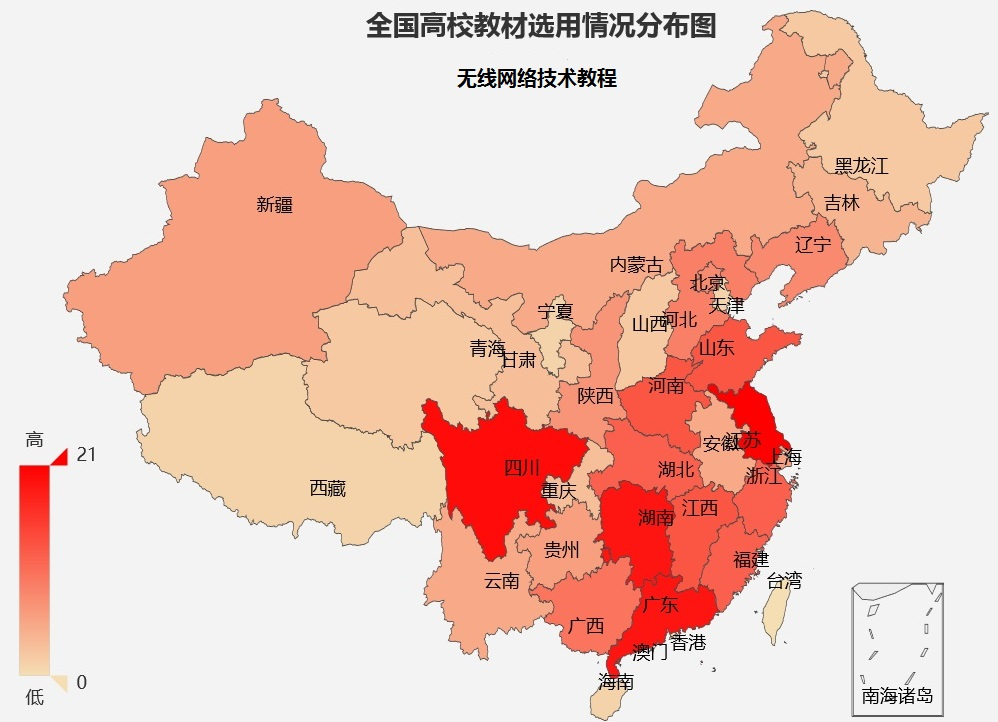
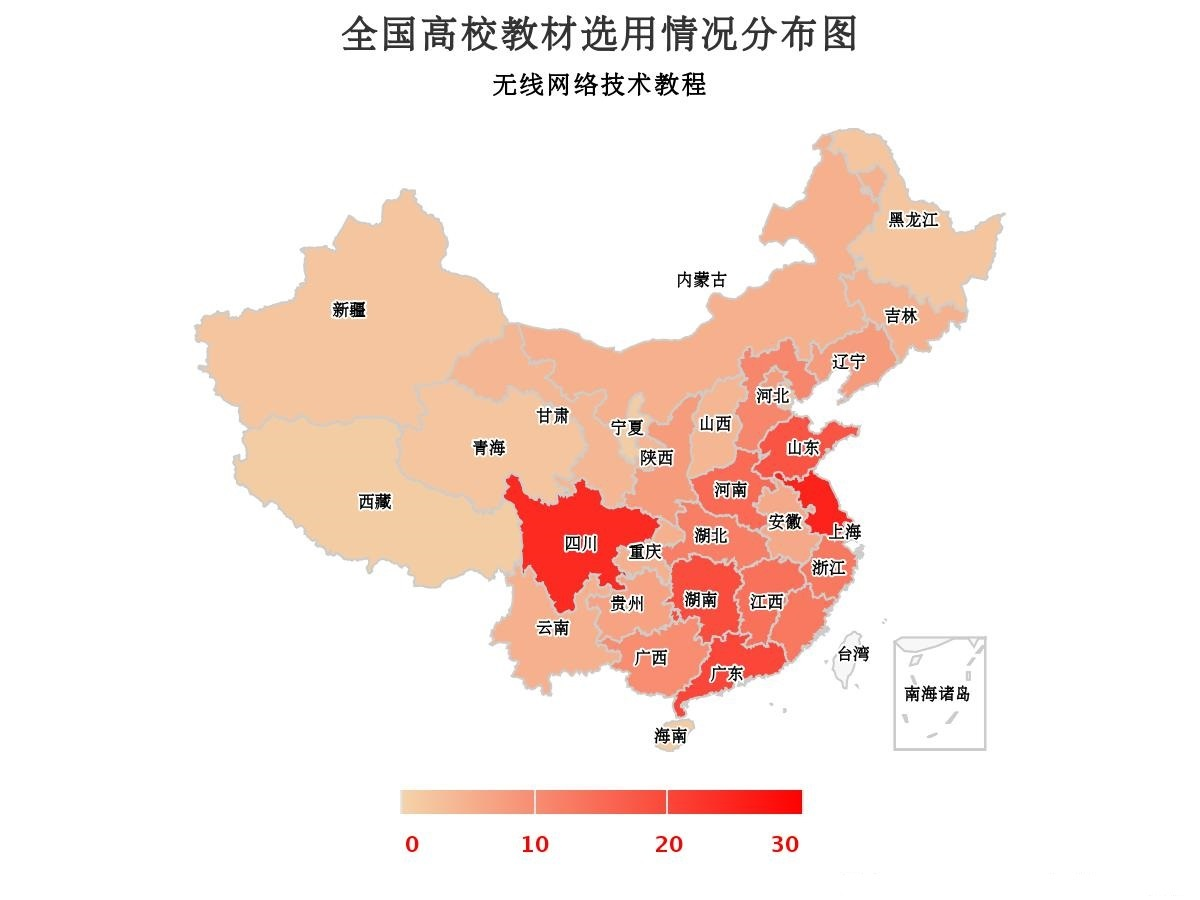
增加高校名册

diff --git a/resource/college_list.html b/resource/college_list.html
@@ -43,42 +43,42 @@
     <p style="text-align:center"><strong><font size=4>清华大学出版社, 2017.</font></strong></p>
    <div style="text-align:center">
              <img src="../images/map.jpg"  width="350" height="250">
-             	<p style="line-height:140%;margin-bottom:2px;word-break:break-all;"><CENTER>截止2018.1，已被200余所高校选为教学用书</CENTER></p>
+             	<p style="line-height:140%;margin-bottom:2px;word-break:break-all;"><CENTER>截止2019.5，已被200余所高校选为教学用书</CENTER></p>
     </div>
 
     <p style="text-indent:2em; text-align:justify;line-height:140%;margin-bottom:2px;word-break:break-all;">按省份及学校首字母排序</p>
 
-    <p style="text-indent:2em;text-align:justify;word-break:break-all;">安徽：安徽科技学院、安徽新华学院、巢湖学院、滁州学院、凤阳科技学校、合肥安财职业技术学院</p>
+    <p style="text-indent:2em;text-align:justify;word-break:break-all;">安徽：安徽财贸职业技术学院、安徽科技学院、安徽新华学院、巢湖学院、滁州学院、凤阳科技学校</p>
 	<p style="text-indent:2em;text-align:justify;word-break:break-all;">北京：北京财贸职业学院、北京工业大学、北京建筑大学、北京联合大学、北京林业大学、北京师范大学、北京信息科技大学、首都师范大学</p>
-	<p style="text-indent:2em;text-align:justify;word-break:break-all;">重庆：长江师范学院、重庆大学、重庆邮电大学</p>
-	<p style="text-indent:2em;text-align:justify;word-break:break-all;">福建：福建农林大学、福建师范大学、福建师范大学协和学院、福建信息职业技术学院、华侨大学、集美大学、泉州师范学院、厦门大学嘉庚学院、厦门东方学院、厦门软件职业技术学院、阳光学院、漳州城市职业学院</p>
-	<p style="text-indent:2em;text-align:justify;word-break:break-all;">甘肃：定西师范高等专科学校、兰州城市学院、兰州职业技术学院</p>
-	<p style="text-indent:2em;text-align:justify;word-break:break-all;">广东：广东白云学院、广东东软学院、广东海洋大学寸金学院、广东华商技工学校、广东技术师范学院、广东科技学院、广东理工职业学院、广东职业技术学院、广州大学、广州商学院、华南理工大学、华南农业大学、惠州学院、惠州城市职业学院、吉林大学珠海学院、清远职业技术学院、深圳大学、肇庆学院、中山火炬职业技术学院</p>
+	<p style="text-indent:2em;text-align:justify;word-break:break-all;">重庆：长江师范学院、重庆大学、重庆邮电大学、重庆水利电力职业技术学院、重庆文理学院</p>
+	<p style="text-indent:2em;text-align:justify;word-break:break-all;">福建：福建农林大学、福建师范大学、福建师范大学协和学院、福建信息职业技术学院、华侨大学、集美大学、泉州师范学院、莆田学院、厦门大学嘉庚学院、厦门东方学院、厦门软件职业技术学院、阳光学院、漳州城市职业学院</p>
+	<p style="text-indent:2em;text-align:justify;word-break:break-all;">甘肃：定西师范高等专科学校、兰州城市学院、兰州工业学院、兰州职业技术学院</p>
+	<p style="text-indent:2em;text-align:justify;word-break:break-all;">广东：广东白云学院、广东东软学院、广东交通职技术学院、广东海洋大学寸金学院、广东华商技工学校、广东技术师范学院、广东科技学院、广东理工职业学院、广东职业技术学院、广州大学、广州商学院、华南理工大学、华南农业大学、惠州学院、惠州城市职业学院、吉林大学珠海学院、清远职业技术学院、深圳大学、肇庆学院、中山火炬职业技术学院</p>
 	<p style="text-indent:2em;text-align:justify;word-break:break-all;">广西：百色学院、广西大学、广西科技大学、广西科技师范学院、广西农业职业技术学院、广西师范大学、桂林电子科技大学、桂林电子科技大学职业技术学院、桂林理工大学博文管理学院、梧州学院</p>
-	<p style="text-indent:2em;text-align:justify;word-break:break-all;">贵州：贵阳学院、贵州财经大学、贵州大学、贵州工商职业学院、贵州民族大学、黔南民族师范学院</p>
+	<p style="text-indent:2em;text-align:justify;word-break:break-all;">贵州：贵阳学院、贵州财经大学、贵州大学、贵州工商职业学院、贵州民族大学、黔南民族师范学院、遵义师范学院</p>
 	<p style="text-indent:2em;text-align:justify;word-break:break-all;">海南：三亚学院</p>
-	<p style="text-indent:2em;text-align:justify;word-break:break-all;">黑龙江：哈尔滨学院</p>
-	<p style="text-indent:2em;text-align:justify;word-break:break-all;">河北：承德石油高等专科学校、河北地质大学、河北师范大学、廊坊师范学院、廊坊职业技术学院、石家庄经济职业学院、石家庄外经贸职业学院、石家庄邮电职业技术学院、邢台技术职业学院</p>
-	<p style="text-indent:2em;text-align:justify;word-break:break-all;">河南：安阳师范学院、河南大学、河南工学院、河南交通职业技术学院、河南经贸职业学院、河南艺术职业学院、黄河交通学院、南阳医学高等专科学校、平顶山学院、信阳农林学院、信阳师范学院、郑州电子技术学院、周口师范学院</p>
+	<p style="text-indent:2em;text-align:justify;word-break:break-all;">黑龙江：哈尔滨学院、哈尔滨金融学院</p>
+	<p style="text-indent:2em;text-align:justify;word-break:break-all;">河北：承德石油高等专科学校、河北北方学院、河北地质大学、河北师范大学、河北外国语学院、廊坊师范学院、廊坊职业技术学院、石家庄经济职业学院、石家庄外经贸职业学院、石家庄邮电职业技术学院、邢台技术职业学院</p>
+	<p style="text-indent:2em;text-align:justify;word-break:break-all;">河南：安阳师范学院、河南大学、河南省广播电视大学、河南工学院、河南交通职业技术学院、河南经贸职业学院、河南艺术职业学院、黄河交通学院、南阳医学高等专科学校、平顶山学院、商丘师范学院、信阳农林学院、信阳师范学院、郑州电子技术学院、周口师范学院</p>
 	<p style="text-indent:2em;text-align:justify;word-break:break-all;">湖北：湖北民族学院、湖北三峡职业技术学院、华中科技大学、黄冈师范学院、武汉城市职业学院、武汉大学、武汉华夏理工学院、武汉科技大学、武汉轻工大学、武汉职业技术学院、中南财经政法大学、中南民族大学</p>
-	<p style="text-indent:2em;text-align:justify;word-break:break-all;">湖南：国防科技大学、衡阳技师学院、衡阳师范学院、湖南郴州工业交通学校、湖南城市学院、湖南大学、湖南工学院、湖南工业大学、湖南工业职业技术学院、湖南交通工程学院、湖南科技大学、湖南科技学院、湖南科技职业学院、湖南理工学院、湖南人文科技学院、湖南信息学院、吉首大学、邵阳学院、中南大学</p>
-	<p style="text-indent:2em;text-align:justify;word-break:break-all;">吉林：东北师范大学、吉林农业科技学院、延边大学、长春建筑学院</p>
-	<p style="text-indent:2em;text-align:justify;word-break:break-all;">江苏：常州大学、常州工程职业技术学院、常州广播电视大学、常州轻工职业技术学院、江苏大学、江苏建康职业学院、江苏经贸职业技术学院、江苏理工学院、金陵科技学院、淮阴工学院、南京工程学院、南京机电职业技术学院、南京审计大学、南师大中北学院、南京信息工程大学、南通大学、三江学院、苏州大学文正学院、苏州健雄职业技术学院、苏州科技大学、太湖学院</p>
-	<p style="text-indent:2em;text-align:justify;word-break:break-all;">江西：东华理工大学、东华理工大学长江学院、江西财经职业学院、江西警察学院、江西科技师范大学、江西理工大学、江西理工大学应用科学学院、江西先锋软件职业技术学院、华东交通大学理工学院、南昌大学、南昌理工学院、宜春学院、新余学院</p>
-	<p style="text-indent:2em;text-align:justify;word-break:break-all;">辽宁：大连东软信息学院、辽东学院、辽宁工程技术大学、辽宁工业大学、辽宁省交通高等专科学校、沈阳工学院、沈阳科技学院、沈阳科技学院</p>
+	<p style="text-indent:2em;text-align:justify;word-break:break-all;">湖南：国防科技大学、衡阳技师学院、衡阳师范学院、湖南郴州工业交通学校、湖南城市学院、湖南大学、湖南工学院、湖南工业大学、湖南工业职业技术学院、湖南交通工程学院、湖南科技大学、湖南科技学院、湖南科技职业学院、湖南理工学院、湖南人文科技学院、湖南信息职业技术学院、吉首大学、邵阳学院、中南大学</p>
+	<p style="text-indent:2em;text-align:justify;word-break:break-all;">吉林：东北师范大学、吉林工商学院、吉林农业科技学院、延边大学、长春建筑学院</p>
+	<p style="text-indent:2em;text-align:justify;word-break:break-all;">江苏：常州大学、常州工程职业技术学院、常州广播电视大学、常州轻工职业技术学院、江苏大学、江苏警官学院、江苏建康职业学院、江苏经贸职业技术学院、江苏理工学院、金陵科技学院、淮海工学院、淮阴工学院、南京工程学院、南京机电职业技术学院、南京审计大学、南师大中北学院、南京信息工程大学、南京邮电大学、南通大学、三江学院、苏州大学文正学院、苏州经贸职业技术学院、苏州健雄职业技术学院、苏州科技大学、无锡太湖学院</p>
+	<p style="text-indent:2em;text-align:justify;word-break:break-all;">江西：东华理工大学、东华理工大学长江学院、华东交通大学理工学院、江西财经职业学院、江西警察学院、江西科技师范大学、江西理工大学、江西理工大学应用科学学院、江西先锋软件职业技术学院、九江学院、南昌大学、南昌理工学院、宜春学院、新余学院</p>
+	<p style="text-indent:2em;text-align:justify;word-break:break-all;">辽宁：大连东软信息学院、辽东学院、辽宁工程技术大学、辽宁工业大学、辽宁省交通高等专科学校、沈阳工程学院、沈阳工学院、沈阳科技学院</p>
 	<p style="text-indent:2em;text-align:justify;word-break:break-all;">内蒙古：包头职业技术学院、内蒙古大学、内蒙古工业大学、内蒙古民族大学、内蒙古师范大学</p>
 	<p style="text-indent:2em;text-align:justify;word-break:break-all;">宁夏：宁夏理工学院</p>
 	<p style="text-indent:2em;text-align:justify;word-break:break-all;">青海：青海交通职业技术学院、青海民族大学</p>
 	<p style="text-indent:2em;text-align:justify;word-break:break-all;">山东：德州学院、菏泽学院、济南大学、济宁职业技术学院、聊城大学、齐鲁师范学院、山东华宇工学院、山东建筑大学、山东科技大学、山东力明科技职业学院、山东协和学院、烟台大学、枣庄学院、中国石油大学(华东)</p>
-	<p style="text-indent:2em;text-align:justify;word-break:break-all;">山西：大同大学、太原工业学院、忻州师范学院</p>
+	<p style="text-indent:2em;text-align:justify;word-break:break-all;">山西：大同大学、太原工业学院、山西机电职业技术学院、忻州师范学院</p>
 	<p style="text-indent:2em;text-align:justify;word-break:break-all;">陕西：汉中职业技术学院、陕西工业职业技术学院、渭南师范学院、西安工业大学、西安欧亚学院、西安邮电大学、长安大学</p>
-	<p style="text-indent:2em;text-align:justify;word-break:break-all;">上海：上海电机学院、上海第二工业大学、上海经济管理学校、上海师范大学、上海商学院、上海应用技术大学</p>
-	<p style="text-indent:2em;text-align:justify;word-break:break-all;">四川：成都东软学院、成都技师学院、成都理工大学、成都师范学院、成都文理学院、成都信息工程大学、江油市职业中学校、绵阳师范学院、四川大学、四川长江职业学院、四川电大、四川工商职业技术学院、四川化工职业技术学院、四川交通职业技术学院、四川师范大学、四川农业大学、四川天一学院、四川现代职业学院 、西华师范大学、西南石油大学</p>
-	<p style="text-indent:2em;text-align:justify;word-break:break-all;">天津：南开大学</p>
+	<p style="text-indent:2em;text-align:justify;word-break:break-all;">上海：上海电机学院、上海电力学院、上海第二工业大学、上海经济管理学校、上海立达职业技术学院、上海师范大学、上海商学院、上海应用技术大学</p>
+	<p style="text-indent:2em;text-align:justify;word-break:break-all;">四川：成都东软学院、成都技师学院、成都理工大学、成都师范学院、成都文理学院、成都信息工程大学、电子科技大学成都学院、江油市职业中学校、绵阳师范学院、四川大学、四川长江职业学院、四川电大、四川工商职业技术学院、四川化工职业技术学院、四川交通职业技术学院、四川师范大学、四川农业大学、四川天一学院、四川现代职业学院、四川信息职业技术学院、西华大学、西华师范大学、西南民族大学、西南石油大学</p>
+	<p style="text-indent:2em;text-align:justify;word-break:break-all;">天津：南开大学、天津商业大学、天津职业技术师范大学</p>
 	<p style="text-indent:2em;text-align:justify;word-break:break-all;">西藏：西藏民族大学</p>
 	<p style="text-indent:2em;text-align:justify;word-break:break-all;">新疆：昌吉学院、喀什大学</p>
 	<p style="text-indent:2em;text-align:justify;word-break:break-all;">云南：楚雄师范学院、昆明理工大学、云南工商学院、云南科技信息职业学院、云南师范大学</p>
-	<p style="text-indent:2em;text-align:justify;word-break:break-all;">浙江：嘉兴技师学院、嘉兴学院、丽水学院、宁波大学、宁波大学科技学院、宁波工程学院、绍兴文理学院元培学院、桐庐职技院、温州科技职业学院、浙江大学、浙江工业大学、浙江万里学院</p>
+	<p style="text-indent:2em;text-align:justify;word-break:break-all;">浙江：嘉兴技师学院、嘉兴学院、丽水学院、宁波大学、宁波大学科技学院、宁波工程学院、绍兴文理学院元培学院、桐庐职技院、温州科技职业学院、浙江大学、浙江工业大学、浙江外国语学院、浙江万里学院</p>
     
     <!--div class="container">
       <p class="text-muted">
